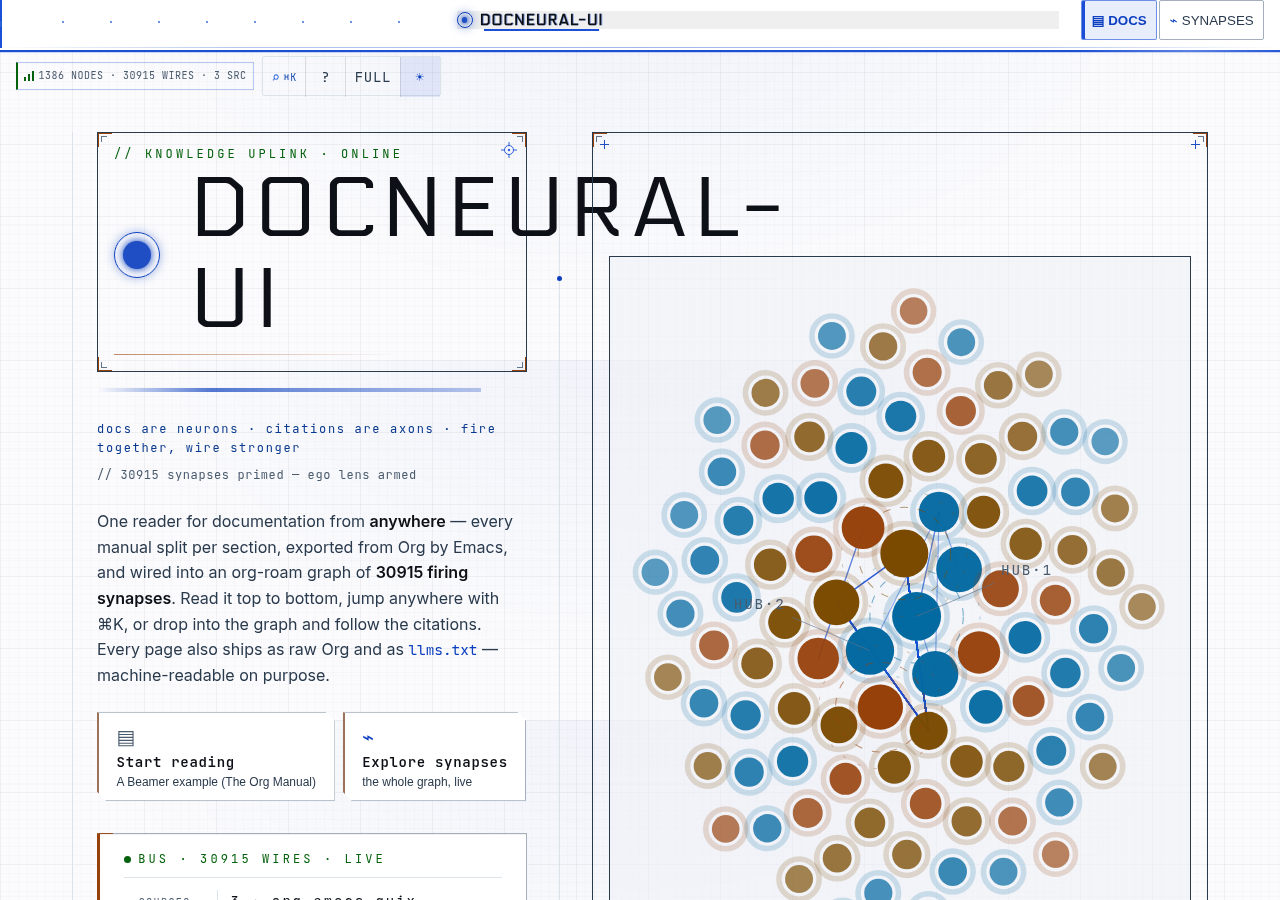
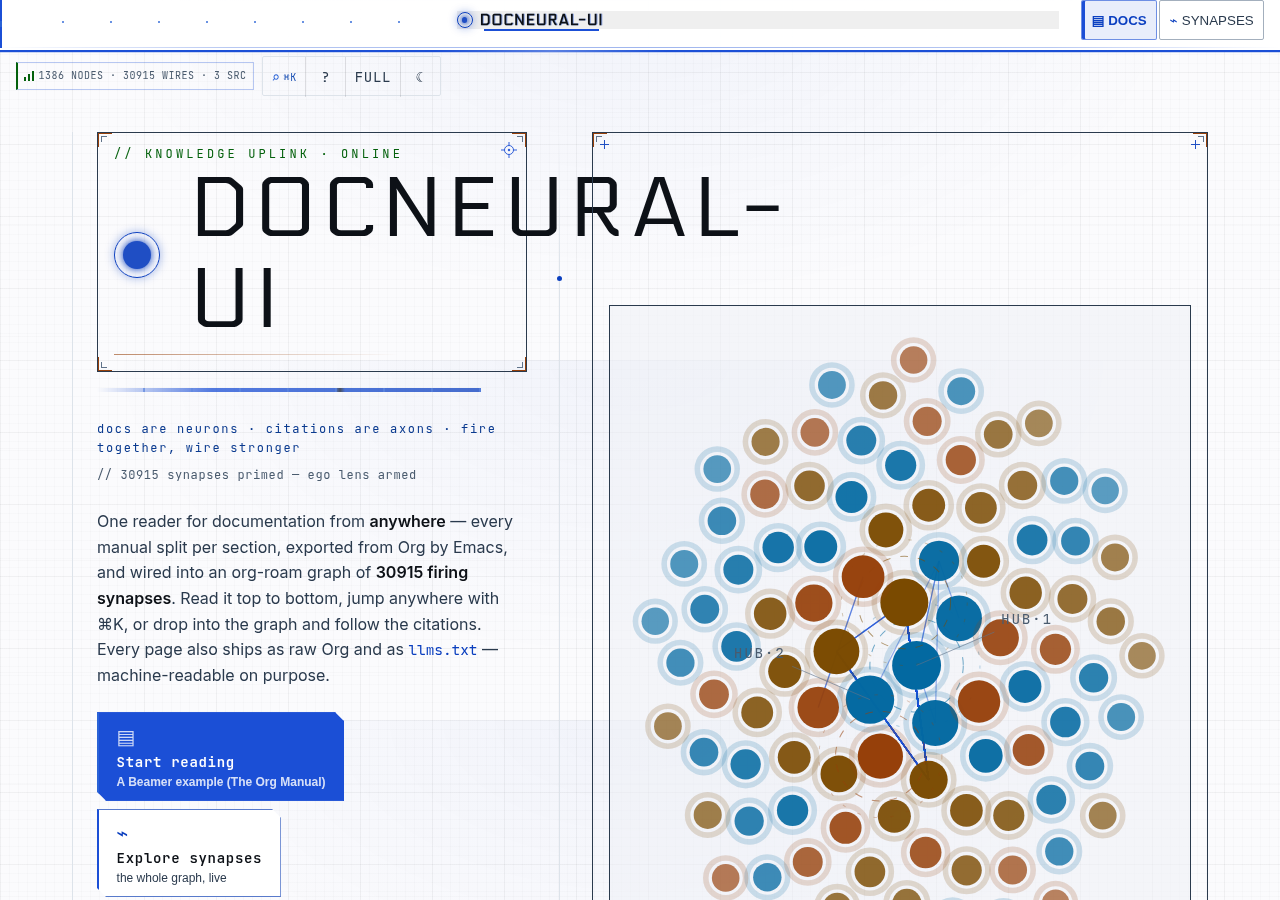
records: OP-56 surface batch 6f1be70 - after-shots refresh + glm5v vision verdict

diff --git a/bench/2026-10-28-electric-site/out/F-review.md b/bench/2026-10-28-electric-site/out/F-review.md
@@ -1,0 +1,16 @@
+1. VERDICT
+Image 1 (dark phone): PASS — neon-blue electric law satisfied across all layers; header and loader carry full voltage.
+Image 2 (light phone): FIX — body text and muted labels fail the electric law; the canvas is white-washed, not electric. Switch to #e6f0ff base with #001a4d ink to restore the field.
+Image 3 (dark desktop): PASS — lattice, mini-map headings, rocker header, status meter, keycap bank, and boot board all deploy correctly; whole-site neon-blue holds.
+Image 4 (light desktop): FIX — same as Image 2; the light theme is a paper mockup, not an electric build. Apply the blue-shift palette immediately.
+
+2. CONTRAST CHECK
+Body text: Adequate in dark (white on #0a0e1a, ~15:1). Inadequate in light — current grey on off-white sits near 4.5:1 but violates the spec’s electric-blue requirement; must shift to dark navy (#0b1929) on pale azure (#e8f0fe) for both compliance and contrast (~12:1).
+Muted text: Adequate in dark (slate-blue on deep). Borderline in light — needs at least #4a6fa5 on the electric base, not current warm-grey.
+CTA ink on electric fill: PASS — white or very-light text on royal-blue (#2563eb) buttons exceeds 4.5:1 in both themes.
+Canvas labels / graph nodes: Adequate in dark (bright labels on nodes). In light theme, brown/tan node clusters against white lose definition; require outline strokes or darker fills to meet 3:1 for large graphics.
+
+3. REMAINING
+1. **Light-theme palette violation** — The white/light-grey scheme in Images 2 and 4 breaks OP-56’s “whole-site neon-blue electric” mandate. Remap CSS variables: background to #eef4ff / #f0f5ff, surface cards to #dbeafe with 1px #93c5fd border, text-primary to #0c1929, text-muted to #3b5998. This is a spec-compliance blocker, not a polish item.
+2. **Graph node contrast in light mode** — The organic cluster (Images 2/4) uses low-saturation earth tones that dissolve into the white background. Add 1px #1e40af stroke to all nodes or shift fill luminance down by 30% so the “30915 firing synapses” remain legible without dark-mode crutch.
+3. **Header bus rider caret loop** — Fact log states Home desktop runs infinite loops on the header caret/bus-rider animation. Even if performance is acceptable now, this risks battery drain and main-thread jank on mobile. Throttle to `requestAnimationFrame` with a frame-skip guard or convert to CSS `@keyframes` with `animation-iteration-count: infinite` (GPU-composited) to zero out JS cost.
